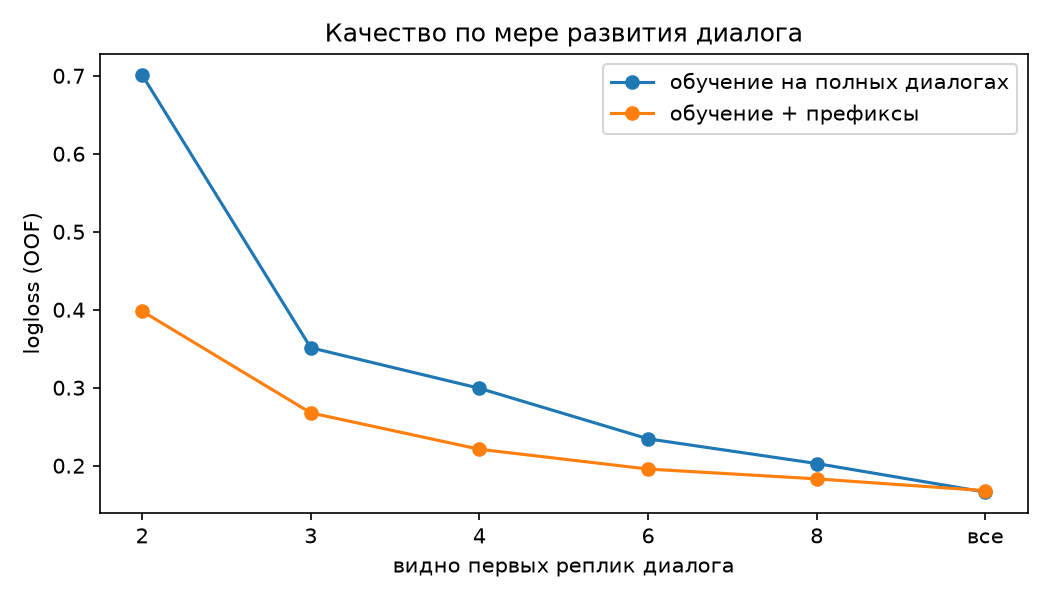
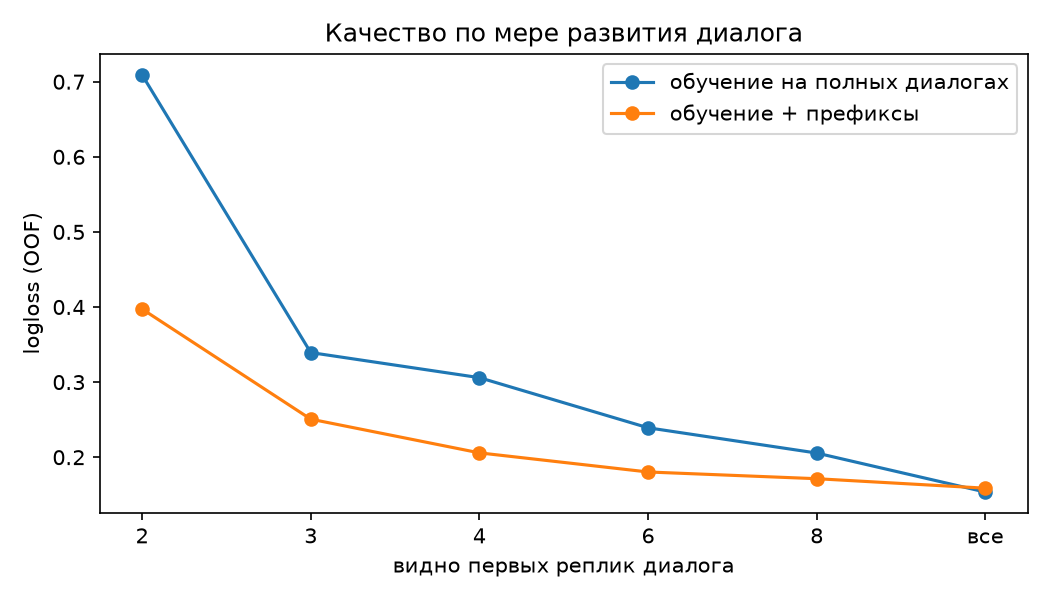
readme and slides for run 45b56f8

diff --git a/presentation/slides/results.html b/presentation/slides/results.html
@@ -1,22 +1,21 @@
-<section id="results" data-transition="fade" style="background:#F7F6F2;color:#14213D;font-family:'IBM Plex Sans', Arial, sans-serif;padding:128px 128px 160px;display:flex;flex-direction:column;gap:32px">
+<section id="results" data-transition="fade" style="background:#F7F6F2;color:#14213D;font-family:'IBM Plex Sans', Arial, sans-serif;padding:128px 128px 160px;display:flex;flex-direction:column;gap:28px">
 <div style="display:flex;flex-direction:column;gap:16px">
-<p style="font-family:'JetBrains Mono', 'Courier New', monospace;font-size:24px;color:#B5541F;letter-spacing:2px">ЭКСПЕРИМЕНТЫ · 5-FOLD CV ПО ДИАЛОГАМ · 17 КОНФИГОВ</p>
-<h2 style="font-size:60px;font-weight:600;line-height:1.1">От константы 0.676 до стекинга 0.158</h2>
+<p style="font-family:'JetBrains Mono', 'Courier New', monospace;font-size:24px;color:#B5541F;letter-spacing:2px">ЭКСПЕРИМЕНТЫ · 5-FOLD CV ПО ДИАЛОГАМ · 25 КОНФИГОВ</p>
+<h2 style="font-size:60px;font-weight:600;line-height:1.1">От константы 0.676 до стекинга 0.115</h2>
 </div>
 <table style="font-size:24px;color:#14213D;font-family:'IBM Plex Sans', Arial, sans-serif">
 <tr><th style="width:58%;text-align:left">Конфиг</th><th style="width:14%;text-align:right">logloss</th><th style="width:14%;text-align:right">ROC-AUC</th><th style="width:14%;text-align:right">accuracy</th></tr>
 <tr><td>01 prior (доля ботов)</td><td style="text-align:right">0.676</td><td style="text-align:right">0.499</td><td style="text-align:right">0.592</td></tr>
 <tr><td>rubert-tiny2 fine-tune, сам по себе</td><td style="text-align:right">0.386</td><td style="text-align:right">0.911</td><td style="text-align:right">—</td></tr>
-<tr><td>02 LogReg · ручные признаки</td><td style="text-align:right">0.301</td><td style="text-align:right">0.943</td><td style="text-align:right">0.881</td></tr>
-<tr><td>05 LogReg · TF-IDF + признаки обоих + согласование пары</td><td style="text-align:right">0.225</td><td style="text-align:right">0.970</td><td style="text-align:right">0.919</td></tr>
-<tr><td>14 модель пары + rubert признаком в LightGBM</td><td style="text-align:right">0.181</td><td style="text-align:right">0.981</td><td style="text-align:right">0.931</td></tr>
-<tr><td>07 LightGBM · признаки + TF-IDF</td><td style="text-align:right">0.172</td><td style="text-align:right">0.983</td><td style="text-align:right">0.934</td></tr>
-<tr><td>09 бленд LogReg + LightGBM</td><td style="text-align:right">0.170</td><td style="text-align:right">0.983</td><td style="text-align:right">0.934</td></tr>
-<tr><td>12 модель пары + перплексия LLM</td><td style="text-align:right">0.167</td><td style="text-align:right">0.983</td><td style="text-align:right">0.934</td></tr>
-<tr><td>11 модель пары, 3 исхода + перестановка</td><td style="text-align:right">0.166</td><td style="text-align:right">0.983</td><td style="text-align:right">0.934</td></tr>
-<tr><td>16 стекинг: пара + rubert</td><td style="text-align:right">0.163</td><td style="text-align:right">0.983</td><td style="text-align:right">0.935</td></tr>
-<tr style="background:#FBE9DC"><td><b>17 стекинг: пара + бленд + логрег + rubert</b></td><td style="text-align:right"><b>0.158</b></td><td style="text-align:right">0.984</td><td style="text-align:right">0.937</td></tr>
+<tr><td>02 LogReg · ручные признаки</td><td style="text-align:right">0.273</td><td style="text-align:right">0.953</td><td style="text-align:right">0.895</td></tr>
+<tr><td>05 LogReg · TF-IDF + признаки обоих + согласование пары</td><td style="text-align:right">0.222</td><td style="text-align:right">0.972</td><td style="text-align:right">0.921</td></tr>
+<tr><td>07 LightGBM · признаки + TF-IDF</td><td style="text-align:right">0.162</td><td style="text-align:right">0.985</td><td style="text-align:right">0.936</td></tr>
+<tr><td>11 модель пары, 3 исхода + перестановка</td><td style="text-align:right">0.154</td><td style="text-align:right">0.985</td><td style="text-align:right">0.938</td></tr>
+<tr><td>17 стекинг: пара + бленд + логрег + rubert</td><td style="text-align:right">0.147</td><td style="text-align:right">0.986</td><td style="text-align:right">0.938</td></tr>
+<tr><td>18 LightGBM + target encoding реплик</td><td style="text-align:right">0.131</td><td style="text-align:right">0.990</td><td style="text-align:right">0.951</td></tr>
+<tr><td>19 модель пары + target encoding реплик</td><td style="text-align:right">0.119</td><td style="text-align:right">0.991</td><td style="text-align:right">0.953</td></tr>
+<tr style="background:#FBE9DC"><td><b>21 стекинг: 19 + 18 + бленд + логрег + rubert</b></td><td style="text-align:right"><b>0.115</b></td><td style="text-align:right">0.992</td><td style="text-align:right">0.955</td></tr>
 </table>
-<p style="position:absolute;left:128px;bottom:64px;width:1664px;font-size:24px;color:#6A7179">17 на публичном лидерборде: 0.1281 (10-е место из 34) · полный список — в MLflow, эксперимент you-are-bot · 12</p>
-<aside>Показаны ключевые строки, всего 17 конфигов плюс rubert и онлайн-эксперимент. Главные шаги: признаки поведения, признаки собеседника, бустинг, совместная модель пары, линейный стекинг. Перплексия и rubert как признак бустинга не помогли. Стекинг 17 отправлен на лидерборд: публичный logloss 0.1281 (66% теста) при CV 0.158, переобучения под CV не видно.</aside>
+<p style="position:absolute;left:128px;bottom:64px;width:1664px;font-size:24px;color:#6A7179">Публичный лидерборд: первый сабмит 0.1281 (10-е место), стекинг 21 — 0.0987 (3-е из 37) · полный список — в MLflow · 14</p>
+<aside>Показаны ключевые строки: всего 25 конфигов плюс rubert и онлайн-эксперимент, все из одного прогона. Главные шаги: признаки поведения, признаки собеседника, бустинг, совместная модель пары, target encoding реплик и признаки очерёдности ходов. Первый сабмит был стекингом 17 до признаков очерёдности (CV 0.158). Стекинг 22 с target encoding и на втором уровне даёт тот же 0.115. Перплексия LLM и rubert как признак бустинга не помогли.</aside>
 </section>

diff --git a/presentation/slides/bert-stack.html b/presentation/slides/bert-stack.html
@@ -7,17 +7,17 @@
 <div style="flex:1;display:flex;flex-direction:column;gap:24px">
 <p style="font-size:30px;line-height:1.4">rubert-tiny2 читает весь диалог от лица участника: «Я: …» / «Собеседник: …», 5 фолдов → OOF</p>
 <p style="font-size:30px;line-height:1.4">Сам по себе <b>0.386</b> (AUC 0.91), корреляция с моделью пары 0.78</p>
-<p style="font-size:30px;line-height:1.4">Признаком в бустинг — <b>хуже</b>: 0.166 → 0.181. Деревья переобучаются на шумный OOF</p>
+<p style="font-size:30px;line-height:1.4">Признаком в бустинг — <b>хуже</b>: 0.154 → 0.166. Деревья переобучаются на шумный OOF</p>
 <p style="font-size:30px;line-height:1.4">Логрег на логитах OOF разных моделей — <b style="color:#B5541F">лучший результат</b></p>
 </div>
 <table style="width:640px;font-size:28px;color:#14213D">
 <tr><th style="width:70%;text-align:left">Второй уровень</th><th style="width:30%;text-align:right">logloss</th></tr>
-<tr><td>11 пара (без стекинга)</td><td style="text-align:right">0.166</td></tr>
-<tr><td>14 пара + rubert в LightGBM</td><td style="text-align:right">0.181</td></tr>
-<tr><td>16 логрег: пара + rubert</td><td style="text-align:right">0.163</td></tr>
-<tr style="background:#FBE9DC"><td><b>17 логрег: пара + бленд + логрег + rubert</b></td><td style="text-align:right"><b>0.158</b></td></tr>
+<tr><td>11 пара (без стекинга)</td><td style="text-align:right">0.154</td></tr>
+<tr><td>14 пара + rubert в LightGBM</td><td style="text-align:right">0.166</td></tr>
+<tr><td>16 логрег: пара + rubert</td><td style="text-align:right">0.151</td></tr>
+<tr style="background:#FBE9DC"><td><b>17 логрег: пара + бленд + логрег + rubert</b></td><td style="text-align:right"><b>0.147</b></td></tr>
 </table>
 </div>
-<p style="position:absolute;left:128px;bottom:64px;width:1664px;font-size:24px;color:#6A7179">src/youarebot/transformer.py · stack.py · fine-tune на H100 — 0.8 мин · 11</p>
-<aside>Стекинг 17 объединяет разнородные модели: совместную модель пары, бленд логрега и бустинга, логрег на TF-IDF и rubert. Каждая получает один коэффициент на логите, поэтому второй уровень не переобучается. Фолды второго уровня те же, что и у первого.</aside>
+<p style="position:absolute;left:128px;bottom:64px;width:1664px;font-size:24px;color:#6A7179">src/youarebot/transformer.py · stack.py · fine-tune на H100 — 0.7 мин · 11</p>
+<aside>Стекинг 17 объединяет разнородные модели: совместную модель пары, бленд логрега и бустинга, логрег на TF-IDF и rubert. Каждая получает один коэффициент на логите, поэтому второй уровень не переобучается. Фолды второго уровня те же, что и у первого. После target encoding реплик (подход 5) rubert почти ничего не добавляет: в стекинге 21 его вес 0.008.</aside>
 </section>

diff --git a/presentation/slides/repro.html b/presentation/slides/repro.html
@@ -10,7 +10,7 @@
 <x-connector style="width:40px;color:#6A7179"></x-connector>
 <p style="flex:1;font-family:'JetBrains Mono', 'Courier New', monospace;font-size:24px;background:#14213D;color:#F7F6F2;border-radius:12px;padding:20px;text-align:center">rubert · GPU</p>
 <x-connector style="width:40px;color:#6A7179"></x-connector>
-<p style="flex:1;font-family:'JetBrains Mono', 'Courier New', monospace;font-size:24px;background:#14213D;color:#F7F6F2;border-radius:12px;padding:20px;text-align:center">15 конфигов + стекинг</p>
+<p style="flex:1;font-family:'JetBrains Mono', 'Courier New', monospace;font-size:24px;background:#14213D;color:#F7F6F2;border-radius:12px;padding:20px;text-align:center">18 конфигов + стекинг</p>
 <x-connector style="width:40px;color:#6A7179"></x-connector>
 <p style="flex:1;font-family:'JetBrains Mono', 'Courier New', monospace;font-size:24px;background:#B5541F;color:#F7F6F2;border-radius:12px;padding:20px;text-align:center">онлайн · MLflow</p>
 </div>
@@ -21,14 +21,14 @@
 </div>
 <div style="flex:1;display:flex;flex-direction:column;gap:12px;background:#FFFFFF;border:1px solid #E1DFD8;border-radius:16px;padding:32px">
 <h3 style="font-size:30px;font-weight:600">Трекинг MLflow</h3>
-<p style="font-size:24px;color:#4A5568;line-height:1.4">Родительский run pipeline и 19 дочерних: конфиг, git_commit, git_dirty, md5 данных, имена LLM, метрики по фолдам, модели с pyfunc</p>
+<p style="font-size:24px;color:#4A5568;line-height:1.4">Родительский run pipeline и 27 дочерних: конфиг, git_commit, git_dirty, md5 данных, имена LLM, метрики по фолдам, модели с pyfunc</p>
 </div>
 <div style="flex:1;display:flex;flex-direction:column;gap:12px;background:#FFFFFF;border:1px solid #E1DFD8;border-radius:16px;padding:32px">
 <h3 style="font-size:30px;font-weight:600">Скрипты</h3>
 <p style="font-size:24px;color:#4A5568;line-height:1.4">Эксперимент = yaml в configs/. Этапы на torch — отдельными процессами (конфликт libomp с lightgbm)</p>
 </div>
 </div>
-<p style="font-size:28px;color:#4A5568;line-height:1.4">Полный прогон на H100 (cloud.ru) — 21 мин. Повтор даёт те же метрики до 4-го знака; расходятся только модели с rubert, до 0.0003 (недетерминизм GPU).</p>
-<p style="position:absolute;left:128px;bottom:64px;width:1664px;font-size:24px;color:#6A7179">Репозиторий: директория project/ · 13</p>
+<p style="font-size:28px;color:#4A5568;line-height:1.4">Полный прогон на H100 (cloud.ru) — 39 мин. Повтор даёт те же метрики до 4-го знака; расходятся только модели с rubert, до 0.0003 (недетерминизм GPU).</p>
+<p style="position:absolute;left:128px;bottom:64px;width:1664px;font-size:24px;color:#6A7179">Репозиторий: директория project/ · 15</p>
 <aside>Покажу mlflow ui: родительский run pipeline, под ним конфиги, transformer_rubert_tiny2, стекинг и prefix_online. Тег git_dirty=False — прогон сделан на закоммиченном коде; код на сервер переносился git bundle, так что хеш коммита тот же.</aside>
 </section>

diff --git a/presentation/slides/te.html b/presentation/slides/te.html
@@ -1,0 +1,26 @@
+<section id="te" data-transition="fade" style="background:#F7F6F2;color:#14213D;font-family:'IBM Plex Sans', Arial, sans-serif;padding:128px 128px 160px;display:flex;flex-direction:column;gap:48px">
+<div style="display:flex;flex-direction:column;gap:16px">
+<p style="font-family:'JetBrains Mono', 'Courier New', monospace;font-size:24px;color:#B5541F;letter-spacing:2px">ПОДХОД 5 · TARGET ENCODING РЕПЛИК</p>
+<h2 style="font-size:72px;font-weight:600;line-height:1.1">Боты повторяют шаблоны реплик</h2>
+</div>
+<div style="display:flex;gap:48px">
+<div style="flex:1;display:flex;flex-direction:column;gap:24px">
+<p style="font-size:30px;line-height:1.4">1302 из 2837 реплик теста дословно есть в трейне. «привет. как сам?» в 21 диалоге — и все 21 раз от бота</p>
+<p style="font-size:30px;line-height:1.4">Признак — доля ботов среди авторов такой же реплики; по участнику: среднее, максимум, минимум, доля знакомых. И для собеседника</p>
+<p style="font-size:30px;line-height:1.4">Варианты: точное совпадение, шаблон без цифр и пунктуации, похожие реплики</p>
+<p style="font-size:28px;line-height:1.4;color:#4A5568">Без утечки: обучающие строки — по внутренним фолдам, валидация и тест — по трейну фолда</p>
+</div>
+<div style="width:560px;display:flex;flex-direction:column;gap:20px">
+<div style="display:flex;flex-direction:column;gap:4px;background:#FFFFFF;border:1px solid #E1DFD8;border-radius:16px;padding:32px">
+<p style="font-size:28px;color:#4A5568">Пара + перестановка (11)</p>
+<p style="font-size:72px;font-weight:700;line-height:1.1">0.154</p>
+</div>
+<div style="display:flex;flex-direction:column;gap:4px;background:#14213D;border-radius:16px;padding:32px">
+<p style="font-size:28px;color:#BFC8D9">Пара + target encoding (19)</p>
+<p style="font-size:72px;font-weight:700;line-height:1.1;color:#E9A06F">0.119</p>
+</div>
+</div>
+</div>
+<p style="position:absolute;left:128px;bottom:64px;width:1664px;font-size:24px;color:#6A7179">cv logloss · src/youarebot/message_te.py · конфиги 18, 19, 24 · 12</p>
+<aside>Это самый сильный шаг после модели пары. Обёртка MessageTEClassifier работает с любой моделью участника или пары. Строгая вложенная проверка на прототипе дала тот же прирост, что и обычная, — утечки нет. Сглаживание 1.0, пять внутренних фолдов и набор из трёх вариантов выбраны перебором на модели 19. Линейная модель с этим признаком (24) слабая — 0.185, длинный бустинг переобучается, поэтому в 19 он короче и усреднён по пяти сидам.</aside>
+</section>

diff --git a/presentation/slides/tells.html b/presentation/slides/tells.html
@@ -1,0 +1,24 @@
+<section id="tells" data-transition="fade" style="background:#F7F6F2;color:#14213D;font-family:'IBM Plex Sans', Arial, sans-serif;padding:128px 128px 160px;display:flex;flex-direction:column;gap:40px">
+<div style="display:flex;flex-direction:column;gap:16px">
+<p style="font-family:'JetBrains Mono', 'Courier New', monospace;font-size:24px;color:#B5541F;letter-spacing:2px">ПОДХОД 6 · ОЧЕРЁДНОСТЬ ХОДОВ И ФОРМАТИРОВАНИЕ</p>
+<h2 style="font-size:72px;font-weight:600;line-height:1.1">Последнее слово почти всегда за ботом</h2>
+</div>
+<div style="display:flex;gap:56px;align-items:start">
+<table style="flex:1;font-size:28px;color:#14213D">
+<tr><th style="width:60%;text-align:left">Доля участников трейна</th><th style="width:20%;text-align:right">человек</th><th style="width:20%;text-align:right">бот</th></tr>
+<tr><td>Последнее сообщение — его</td><td style="text-align:right">20–27%</td><td style="text-align:right"><b>88–90%</b></td></tr>
+<tr><td>Участник 1 пишет два раза подряд</td><td style="text-align:right">0.3%</td><td style="text-align:right"><b>29%</b></td></tr>
+<tr><td>Пробел или перенос в конце</td><td style="text-align:right">7–8%</td><td style="text-align:right">1%</td></tr>
+<tr><td>Перенос строки внутри</td><td style="text-align:right">1%</td><td style="text-align:right">8–10%</td></tr>
+<tr><td>Двойной пробел</td><td style="text-align:right">0.1–0.6%</td><td style="text-align:right">2–3%</td></tr>
+</table>
+<div style="width:520px;display:flex;flex-direction:column;gap:20px;background:#FFFFFF;border:1px solid #E1DFD8;border-radius:16px;padding:36px">
+<h3 style="font-size:32px;font-weight:600">Шесть ручных признаков — во все модели</h3>
+<p style="font-size:28px;color:#4A5568;line-height:1.4">Пара 11: 0.166 → <b style="color:#14213D">0.154</b></p>
+<p style="font-size:28px;color:#4A5568;line-height:1.4">Пара + target encoding 19: 0.134 → <b style="color:#14213D">0.125</b></p>
+<p style="font-size:28px;color:#4A5568;line-height:1.4">Стекинг 22: 0.129 → <b style="color:#14213D">0.120</b></p>
+</div>
+</div>
+<p style="position:absolute;left:128px;bottom:64px;width:1664px;font-size:24px;color:#6A7179">cv logloss до и после признаков · src/youarebot/features.py · 13</p>
+<aside>Нашлось в разборе ошибок: модели частично выводили «кто закончил диалог» из доли своих ходов, но явный признак сильнее. Символьный TF-IDF с char_wb теряет пробелы по краям реплик, поэтому следы форматирования — отдельные признаки. Цифры справа — до настройки вариантов target encoding, после неё 19 даёт 0.119, стекинг 21 — 0.115.</aside>
+</section>

diff --git a/presentation/slides/arch.html b/presentation/slides/arch.html
@@ -38,6 +38,6 @@
 <p style="font-size:26px;color:#4A5568;line-height:1.4">логи запросов, дрейф длин и языка, разметка спорных диалогов</p>
 </div>
 </div>
-<p style="position:absolute;left:128px;bottom:64px;width:1664px;font-size:24px;color:#6A7179">Сейчас в MLflow — модели на полных диалогах (pyfunc, predict_proba, сигнатура); онлайн-модель с префиксами пока только эксперимент · 14</p>
-<aside>Ключевое — один и тот же код признаков в обучении и в сервисе, чтобы не было train/serve skew. Модель упаковывается в Docker вместе с uv.lock. Registry с алиасами champion/challenger уже использовали в ДЗ3. Онлайн-модель с префиксами пока есть только как эксперимент prefix_online: он показывает, что прогноз адекватен уже после 2–4 реплик. Для сервиса её нужно обучить на всём трейне и положить в Registry. Тяжёлые части (rubert, LLM) — опционально, отдельным GPU-воркером: прирост от них маленький.</aside>
+<p style="position:absolute;left:128px;bottom:64px;width:1664px;font-size:24px;color:#6A7179">Сейчас в MLflow — модели на полных диалогах (pyfunc, predict_proba, сигнатура); онлайн-модель с префиксами пока только эксперимент · 16</p>
+<aside>Ключевое — один и тот же код признаков в обучении и в сервисе, чтобы не было train/serve skew. Модель упаковывается в Docker вместе с uv.lock. Registry с алиасами champion/challenger уже использовали в ДЗ3. Онлайн-модель с префиксами пока есть только как эксперимент prefix_online: он показывает, что прогноз адекватен уже после 2–4 реплик. Для сервиса её нужно обучить на всём трейне и положить в Registry. Словарь реплик для target encoding хранится внутри модели, поэтому сервису не нужен отдельный доступ к трейну. Тяжёлые части (rubert, LLM) — опционально, отдельным GPU-воркером: прирост от них маленький.</aside>
 </section>

diff --git a/presentation/slides/online.html b/presentation/slides/online.html
@@ -7,10 +7,10 @@
 <img src="project/ds/figures/prefix_curve.png" alt="Logloss в зависимости от числа увиденных реплик: обучение на полных диалогах против обучения с префиксами; префиксы сильно лучше на ранних шагах" style="width:1000px;height:570px;object-fit:contain;background:#FFFFFF;border-radius:12px">
 <div style="flex:1;display:flex;flex-direction:column;gap:28px">
 <p style="font-size:30px;line-height:1.35">Сервис отвечает по ходу диалога — модель видит только первые k реплик</p>
-<p style="font-size:30px;line-height:1.35">Обучение только на полных диалогах после 2 реплик хуже константы: <b>0.701</b></p>
-<p style="font-size:30px;line-height:1.35">Добавили в обучение префиксы 2/4/6: <b style="color:#B5541F">0.398</b>, а на полных диалогах качество то же</p>
+<p style="font-size:30px;line-height:1.35">Обучение только на полных диалогах после 2 реплик хуже константы: <b>0.709</b></p>
+<p style="font-size:30px;line-height:1.35">Добавили в обучение префиксы 2/4/6: <b style="color:#B5541F">0.397</b>, а на полных диалогах почти то же</p>
 </div>
 </div>
 <p style="position:absolute;left:128px;bottom:64px;width:1664px;font-size:24px;color:#6A7179">Модель 11, OOF по тем же 5 фолдам · MLflow run prefix_online · 9</p>
-<aside>Модель, обученная на полных диалогах, на коротком префиксе видит непривычные значения признаков (одна реплика, нулевое эхо) и уверенно ошибается. Префиксная аугментация решает это почти бесплатно: на полных диалогах 0.168 против 0.166. После 4 реплик: 0.221 против 0.299.</aside>
+<aside>Модель, обученная на полных диалогах, на коротком префиксе видит непривычные значения признаков (одна реплика, нулевое эхо) и уверенно ошибается. Префиксная аугментация решает это почти бесплатно: на полных диалогах 0.159 против 0.154. После 4 реплик: 0.206 против 0.306.</aside>
 </section>

diff --git a/presentation/slides/idea.html b/presentation/slides/idea.html
@@ -6,7 +6,7 @@
 <div style="display:flex;gap:24px;align-items:stretch">
 <div style="flex:1;display:flex;flex-direction:column;gap:16px;background:#FFFFFF;border:1px solid #E1DFD8;border-radius:16px;padding:36px">
 <p style="font-family:'JetBrains Mono', 'Courier New', monospace;font-size:24px;color:#3E64A6">1 · ПРИЗНАКИ</p>
-<p style="font-size:28px;line-height:1.4">~30 ручных: стиль, длины, эхо, самоповтор, доля ходов</p>
+<p style="font-size:28px;line-height:1.4">~35 ручных: стиль, длины, эхо, самоповтор, очерёдность ходов</p>
 <p style="font-size:28px;line-height:1.4">Те же для собеседника</p>
 <p style="font-size:28px;line-height:1.4">TF-IDF char 2–5</p>
 </div>
@@ -22,7 +22,7 @@
 <p style="font-family:'JetBrains Mono', 'Courier New', monospace;font-size:24px;color:#3E64A6">3 · ПАРА</p>
 <p style="font-size:28px;line-height:1.4">Исходы: нет бота, бот 0, бот 1</p>
 <p style="font-family:'JetBrains Mono', 'Courier New', monospace;font-size:26px;line-height:1.4">p₀′ = p₀(1−p₁) / Z</p>
-<p style="font-size:28px;line-height:1.4">logloss 0.236 → 0.225</p>
+<p style="font-size:28px;line-height:1.4">logloss 0.224 → 0.222</p>
 </div>
 </div>
 <p style="font-size:32px;color:#4A5568;line-height:1.4">Валидация: StratifiedGroupKFold, 5 фолдов по dialog_id — оба участника диалога всегда в одном фолде.</p>

diff --git a/presentation/slides/next.html b/presentation/slides/next.html
@@ -10,7 +10,7 @@
 </div>
 <div style="display:flex;flex-direction:column;gap:12px">
 <h3 style="font-size:36px;font-weight:600">Внешняя валидация</h3>
-<p style="font-size:28px;color:#BFC8D9;line-height:1.4">стекинг 17: публичный лидерборд 0.1281 при CV 0.158; финал — на приватных 34% теста</p>
+<p style="font-size:28px;color:#BFC8D9;line-height:1.4">стекинг 21: публичный лидерборд 0.0987 (3-е место) при CV 0.115; первый сабмит — 0.1281; финал — на приватных 34% теста</p>
 </div>
 <div style="display:flex;flex-direction:column;gap:12px">
 <h3 style="font-size:36px;font-weight:600">Стекинг в онлайне</h3>
@@ -21,6 +21,6 @@
 <p style="font-size:28px;color:#BFC8D9;line-height:1.4">русскоязычная LM для перплексии, проверка на LLM-ботах отдельно</p>
 </div>
 </div>
-<p style="position:absolute;left:128px;bottom:64px;width:1664px;font-size:24px;color:#BFC8D9">15</p>
+<p style="position:absolute;left:128px;bottom:64px;width:1664px;font-size:24px;color:#BFC8D9">17</p>
 <aside>Финальный слайд. Если спросят про риски: маленький датасет и разнообразие ботов — новый тип бота может не попасть под признаки эхо, поэтому важны эмбеддинги и мониторинг.</aside>
 </section>

diff --git a/presentation/slides/pair-model.html b/presentation/slides/pair-model.html
@@ -13,15 +13,15 @@
 <div style="width:560px;display:flex;flex-direction:column;gap:20px">
 <div style="display:flex;flex-direction:column;gap:4px;background:#FFFFFF;border:1px solid #E1DFD8;border-radius:16px;padding:32px">
 <p style="font-size:28px;color:#4A5568">Лучшая модель до этого (07)</p>
-<p style="font-size:72px;font-weight:700;line-height:1.1">0.172</p>
+<p style="font-size:72px;font-weight:700;line-height:1.1">0.162</p>
 </div>
 <div style="display:flex;flex-direction:column;gap:4px;background:#FFFFFF;border:1px solid #E1DFD8;border-radius:16px;padding:32px">
 <p style="font-size:28px;color:#4A5568">Пара без аугментации (10)</p>
-<p style="font-size:72px;font-weight:700;line-height:1.1">0.191</p>
+<p style="font-size:72px;font-weight:700;line-height:1.1">0.179</p>
 </div>
 <div style="display:flex;flex-direction:column;gap:4px;background:#14213D;border-radius:16px;padding:32px">
 <p style="font-size:28px;color:#BFC8D9">Пара + перестановка (11)</p>
-<p style="font-size:72px;font-weight:700;line-height:1.1;color:#E9A06F">0.166</p>
+<p style="font-size:72px;font-weight:700;line-height:1.1;color:#E9A06F">0.154</p>
 </div>
 </div>
 </div>

diff --git a/presentation/slides/eda-features.html b/presentation/slides/eda-features.html
@@ -8,7 +8,7 @@
 <div style="flex:1;display:flex;flex-direction:column;gap:28px">
 <p style="font-size:32px;line-height:1.35"><b>Ботов выше:</b> доля своих ходов, эхо собеседника, длина ответа относительно реплики собеседника, точка в конце</p>
 <p style="font-size:32px;line-height:1.35"><b>Людей выше:</b> заглавная буква в начале, капс, латиница, восклицательные знаки</p>
-<p style="font-size:32px;line-height:1.35;color:#4A5568">TF-IDF только по текстам даёт logloss 0.495, ручные признаки поведения — 0.301</p>
+<p style="font-size:32px;line-height:1.35;color:#4A5568">TF-IDF только по текстам даёт logloss 0.495, ручные признаки поведения — 0.273</p>
 </div>
 </div>
 <p style="position:absolute;left:128px;bottom:64px;width:1664px;font-size:24px;color:#6A7179">Эффект = (среднее у ботов − среднее у людей) / std · reports/figures/07_feature_effect.png · 5</p>

diff --git a/presentation/slides/llm.html b/presentation/slides/llm.html
@@ -12,7 +12,7 @@
 <div style="flex:1;display:flex;flex-direction:column;gap:16px;background:#FFFFFF;border:1px solid #E1DFD8;border-radius:16px;padding:40px">
 <h3 style="font-size:34px;font-weight:600">Что получили</h3>
 <p style="font-size:28px;color:#4A5568;line-height:1.4">ROC-AUC отдельных признаков 0.58–0.64, на длинных репликах без эха — 0.60–0.67</p>
-<p style="font-size:28px;color:#4A5568;line-height:1.4">Модель пары: 0.166 → <b style="color:#14213D">0.167</b> (12), бустинг: 0.172 → <b style="color:#14213D">0.177</b> (13)</p>
+<p style="font-size:28px;color:#4A5568;line-height:1.4">Модель пары: 0.154 → <b style="color:#14213D">0.156</b> (12), бустинг: 0.162 → <b style="color:#14213D">0.164</b> (13)</p>
 </div>
 </div>
 <p style="font-size:32px;color:#4A5568;line-height:1.4">Почему: боты в данных — в основном эхо и шаблоны, а не LLM; реплики короткие; 0.5B-модель слабо знает русский.</p>
